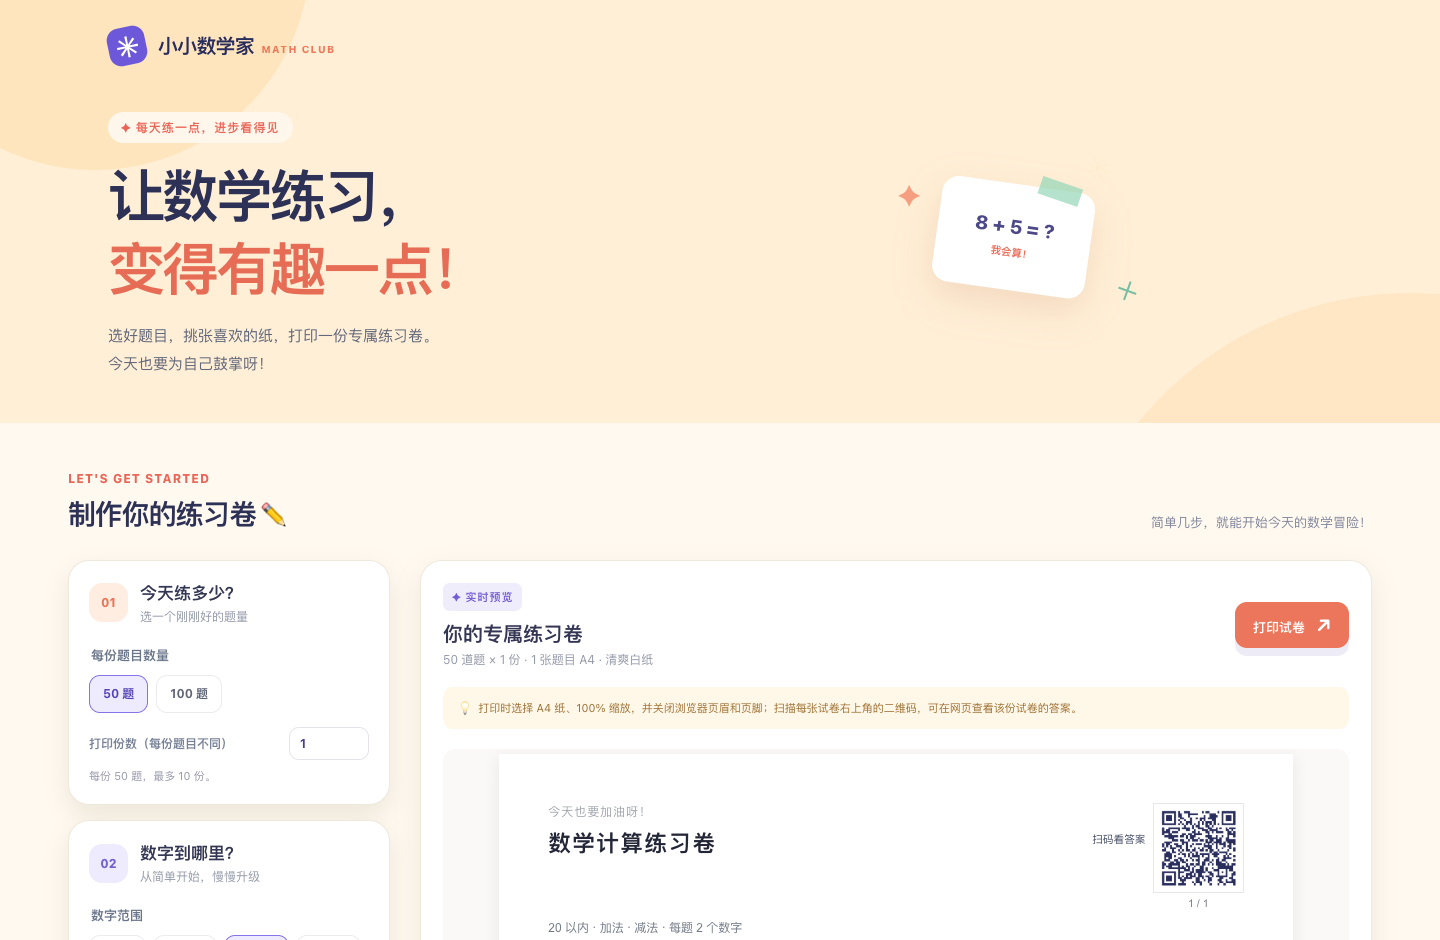
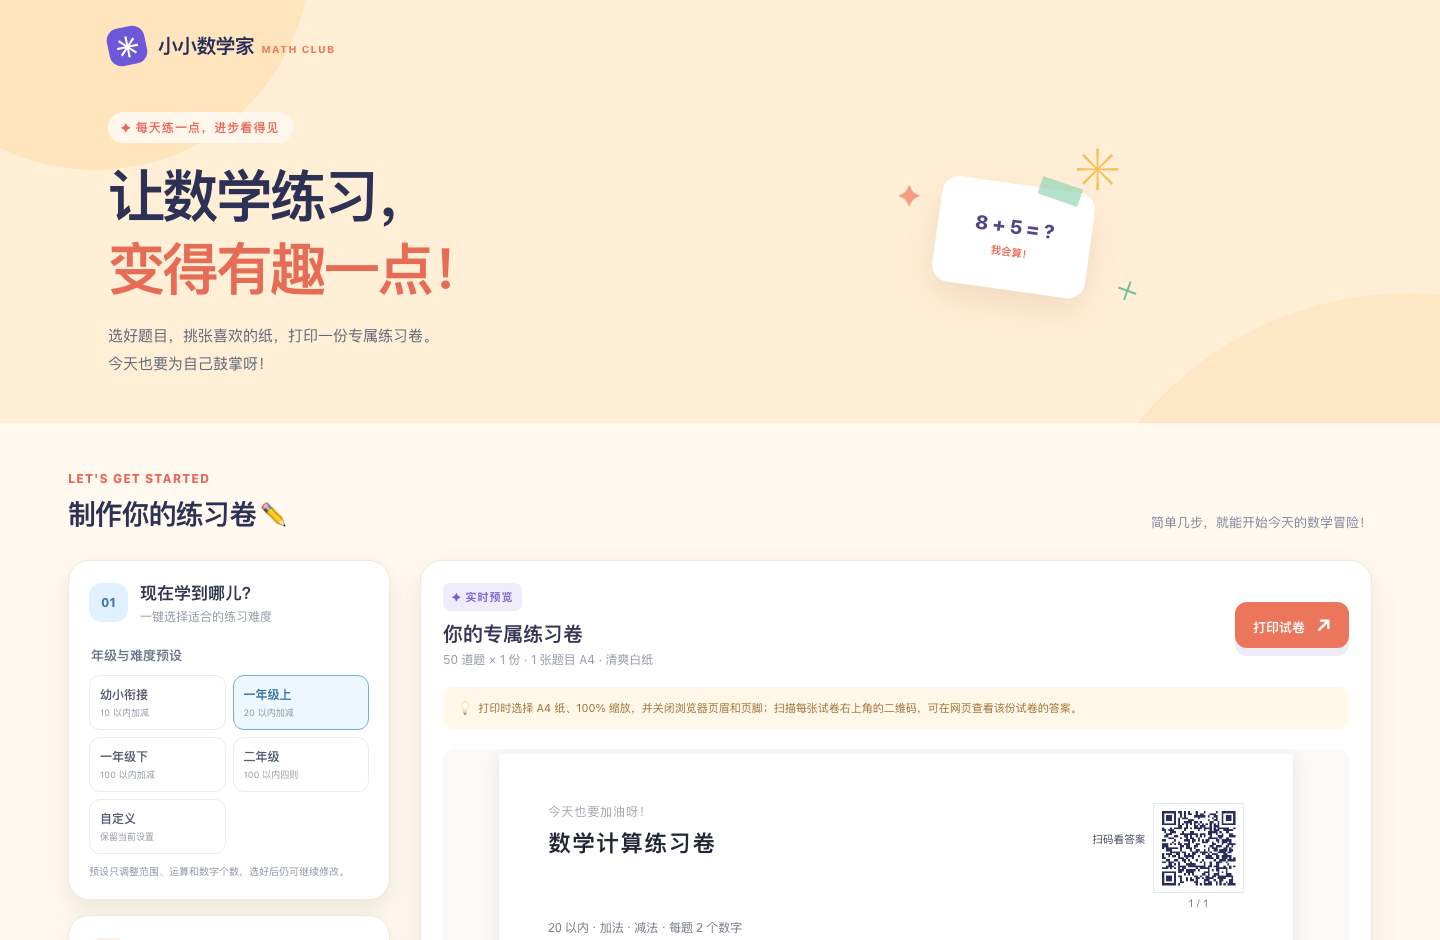
feat: add grade difficulty presets

Changed region(s): [[0.0312, 0.617, 0.2812, 0.9872], [0.7812, 0.8638, 0.875, 0.9564], [0.75, 0.1543, 0.7812, 0.1851]]

diff --git a/src/main.ts b/src/main.ts
@@ -13,6 +13,14 @@ import {
 } from './generator'
 
 type PaperStyle = 'plain' | 'squares' | 'lines' | 'dots' | 'tianzi'
+type PresetId = 'preschool' | 'grade1-first' | 'grade1-second' | 'grade2' | 'custom'
+
+interface SettingsPreset {
+  id: Exclude<PresetId, 'custom'>
+  label: string
+  description: string
+  settings: Pick<Settings, 'limit' | 'operations' | 'operands' | 'additionRegrouping' | 'subtractionRegrouping'>
+}
 
 const styleLabels: Record<PaperStyle, string> = {
   plain: '清爽白纸', squares: '数学方格', lines: '整齐横线',
@@ -31,6 +39,36 @@ const additionRegroupingOptions: Array<[AdditionRegrouping, string]> = [
 ]
 const subtractionRegroupingOptions: Array<[SubtractionRegrouping, string]> = [
   ['any', '随机'], ['without-borrow', '不退位'], ['with-borrow', '必须退位'],
+]
+const settingsPresets: SettingsPreset[] = [
+  {
+    id: 'preschool', label: '幼小衔接', description: '10 以内加减',
+    settings: {
+      limit: 10, operations: ['+', '−'], operands: 2,
+      additionRegrouping: 'any', subtractionRegrouping: 'any',
+    },
+  },
+  {
+    id: 'grade1-first', label: '一年级上', description: '20 以内加减',
+    settings: {
+      limit: 20, operations: ['+', '−'], operands: 2,
+      additionRegrouping: 'any', subtractionRegrouping: 'any',
+    },
+  },
+  {
+    id: 'grade1-second', label: '一年级下', description: '100 以内加减',
+    settings: {
+      limit: 100, operations: ['+', '−'], operands: 2,
+      additionRegrouping: 'any', subtractionRegrouping: 'any',
+    },
+  },
+  {
+    id: 'grade2', label: '二年级', description: '100 以内四则',
+    settings: {
+      limit: 100, operations: ['+', '−', '×', '÷'], operands: 2,
+      additionRegrouping: 'any', subtractionRegrouping: 'any',
+    },
+  },
 ]
 
 interface SheetCopy { seed: number; worksheet: Worksheet }
@@ -94,6 +132,7 @@ let settings: Settings = {
 const limitPresets = [5, 10, 20, 50, 100, 200]
 let customLimit = 200
 let useCustomLimit = false
+let activePreset: PresetId = 'grade1-first'
 let paperStyle: PaperStyle = 'plain'
 let includeAnswers = false
 let copies = 1
@@ -114,6 +153,10 @@ const app = document.querySelector<HTMLDivElement>('#app')!
 
 function choice(name: string, value: string | number, label: string, selected: boolean): string {
   return `<label class="choice"><input type="radio" name="${name}" value="${value}" ${selected ? 'checked' : ''}><span>${label}</span></label>`
+}
+
+function presetChoice(id: PresetId, label: string, description: string): string {
+  return `<label class="preset-choice"><input type="radio" name="preset" value="${id}" ${activePreset === id ? 'checked' : ''}><span><b>${label}</b><small>${description}</small></span></label>`
 }
 
 function makeWorksheets(worksheetSettings: Settings = settings): SheetCopy[] {
@@ -250,9 +293,11 @@ function render(): void {
     </div></header>
     <main class="workspace"><div class="workspace-heading"><div><span class="section-eyebrow">LET'S GET STARTED</span><h2>制作你的练习卷 <span aria-hidden="true">✏</span></h2></div><p>简单几步，就能开始今天的数学冒险！</p></div>
       <div class="workspace-grid"><aside class="controls" aria-label="出题设置">
-        <div class="control-card"><div class="card-title"><span class="title-icon peach">01</span><div><h3>今天练多少？</h3><p>选一个刚刚好的题量</p></div></div><fieldset><legend>每份题目数量</legend><div class="choice-row">${[50, 100].map((n) => choice('count', n, `${n} 题`, settings.count === n)).join('')}</div></fieldset><label class="custom-range">打印份数（每份题目不同）<input type="number" name="copies" min="1" max="10" step="1" value="${copies}" inputmode="numeric" ${settings.count === 100 ? 'disabled' : ''}></label>${settings.count === 100 ? '<p class="copies-hint">要打印多份不同试卷，请先选 50 题。</p>' : '<p class="copies-hint">每份 50 题，最多 10 份。</p>'}</div>
-        <div class="control-card"><div class="card-title"><span class="title-icon lavender">02</span><div><h3>数字到哪里？</h3><p>从简单开始，慢慢升级</p></div></div><fieldset><legend>数字范围</legend><div class="choice-row range-options">${limitPresets.map((n) => choice('limit', n, `${n} 以内`, !useCustomLimit && settings.limit === n)).join('')}${choice('limit', 'custom', '自定义', useCustomLimit)}</div><label class="custom-range">自定义上限（2～200）<input type="number" name="customLimit" min="2" max="200" step="1" value="${customLimit}" inputmode="numeric"></label></fieldset></div>
-        <div class="control-card"><div class="card-title"><span class="title-icon mint">03</span><div><h3>做什么运算？</h3><p>可以同时选好几种哦</p></div></div><fieldset><legend>运算方式（可多选）</legend><div class="choice-row operations">${operationSymbols.map((operator) =>
+        <div class="control-card preset-card"><div class="card-title"><span class="title-icon blue">01</span><div><h3>现在学到哪儿？</h3><p>一键选择适合的练习难度</p></div></div><fieldset><legend>年级与难度预设</legend><div class="preset-grid">${settingsPresets.map((preset) =>
+          presetChoice(preset.id, preset.label, preset.description)).join('')}${presetChoice('custom', '自定义', '保留当前设置')}</div></fieldset><p class="preset-hint">预设只调整范围、运算和数字个数，选好后仍可继续修改。</p></div>
+        <div class="control-card"><div class="card-title"><span class="title-icon peach">02</span><div><h3>今天练多少？</h3><p>选一个刚刚好的题量</p></div></div><fieldset><legend>每份题目数量</legend><div class="choice-row">${[50, 100].map((n) => choice('count', n, `${n} 题`, settings.count === n)).join('')}</div></fieldset><label class="custom-range">打印份数（每份题目不同）<input type="number" name="copies" min="1" max="10" step="1" value="${copies}" inputmode="numeric" ${settings.count === 100 ? 'disabled' : ''}></label>${settings.count === 100 ? '<p class="copies-hint">要打印多份不同试卷，请先选 50 题。</p>' : '<p class="copies-hint">每份 50 题，最多 10 份。</p>'}</div>
+        <div class="control-card"><div class="card-title"><span class="title-icon lavender">03</span><div><h3>数字到哪里？</h3><p>从简单开始，慢慢升级</p></div></div><fieldset><legend>数字范围</legend><div class="choice-row range-options">${limitPresets.map((n) => choice('limit', n, `${n} 以内`, !useCustomLimit && settings.limit === n)).join('')}${choice('limit', 'custom', '自定义', useCustomLimit)}</div><label class="custom-range">自定义上限（2～200）<input type="number" name="customLimit" min="2" max="200" step="1" value="${customLimit}" inputmode="numeric"></label></fieldset></div>
+        <div class="control-card"><div class="card-title"><span class="title-icon mint">04</span><div><h3>做什么运算？</h3><p>可以同时选好几种哦</p></div></div><fieldset><legend>运算方式（可多选）</legend><div class="choice-row operations">${operationSymbols.map((operator) =>
           `<label class="choice op-choice"><input type="checkbox" name="operation" value="${operator}" ${settings.operations.includes(operator) ? 'checked' : ''}><span><b>${operator}</b>${operationNames[operator]}</span></label>`).join('')}</div></fieldset>
           ${settings.operations.includes('+') ? `<fieldset class="regrouping-field"><legend>加法进位</legend><div class="choice-row compact-choices">${additionRegroupingOptions.map(([mode, label]) =>
             choice('additionRegrouping', mode, label, settings.additionRegrouping === mode)).join('')}</div></fieldset>` : ''}
@@ -260,7 +305,7 @@ function render(): void {
             choice('subtractionRegrouping', mode, label, settings.subtractionRegrouping === mode)).join('')}</div></fieldset>` : ''}
           ${settings.operations.includes('+') || settings.operations.includes('−') ? '<p class="regrouping-hint">多数字题中的每一步都会遵守所选规则。</p>' : ''}
           <fieldset><legend>每道题几个数字？</legend><div class="choice-row">${([2, 3, 4] as OperandCount[]).map((n) => choice('operands', n, `${n} 个`, settings.operands === n)).join('')}</div></fieldset></div>
-        <div class="control-card"><div class="card-title"><span class="title-icon yellow">04</span><div><h3>挑一张喜欢的纸</h3><p>每一种都适合写写算算</p></div></div><fieldset><legend>卷面样式</legend><div class="style-grid">${paperStyles.map((style) =>
+        <div class="control-card"><div class="card-title"><span class="title-icon yellow">05</span><div><h3>挑一张喜欢的纸</h3><p>每一种都适合写写算算</p></div></div><fieldset><legend>卷面样式</legend><div class="style-grid">${paperStyles.map((style) =>
           `<label class="style-choice"><input type="radio" name="style" value="${style}" ${paperStyle === style ? 'checked' : ''}><span><b aria-hidden="true">${styleIcons[style]}</b>${styleLabels[style]}</span></label>`).join('')}</div></fieldset></div>
         <label class="answer-toggle"><input type="checkbox" name="answers" ${includeAnswers ? 'checked' : ''}><span><b>附上答案页</b><small>每份试卷各对应一张 A4 答案纸</small></span></label>
         ${error ? `<p class="status error" role="alert">${error}</p>` : ''}
@@ -287,7 +332,22 @@ app.addEventListener('change', (event) => {
     const previousCopies = copies
     const previousCustomLimit = customLimit
     const previousUseCustomLimit = useCustomLimit
+    const previousPreset = activePreset
     const updated = { ...settings }
+    if (input.name === 'preset') {
+      const selectedPreset = input.value as PresetId
+      if (selectedPreset === 'custom') {
+        activePreset = 'custom'
+        error = ''
+        render()
+        return
+      }
+      const preset = settingsPresets.find(({ id }) => id === selectedPreset)
+      if (!preset) return
+      Object.assign(updated, preset.settings)
+      activePreset = preset.id
+      useCustomLimit = false
+    }
     if (input.name === 'count') {
       updated.count = Number(input.value) as Settings['count']
       if (updated.count === 100) copies = 1
@@ -338,10 +398,14 @@ app.addEventListener('change', (event) => {
       const generated = makeWorksheets(updated)
       settings = updated
       worksheets = generated
+      if (input.name !== 'preset' && ['limit', 'customLimit', 'operands', 'operation', 'additionRegrouping', 'subtractionRegrouping'].includes(input.name)) {
+        activePreset = 'custom'
+      }
     } catch (cause) {
       copies = previousCopies
       customLimit = previousCustomLimit
       useCustomLimit = previousUseCustomLimit
+      activePreset = previousPreset
       error = cause instanceof Error ? cause.message : '当前设置无法生成题目，请调整后重试。'
       render()
       return

diff --git a/src/style.css b/src/style.css
@@ -8,6 +8,7 @@
 .paper-scroll{max-height:none}
 .range-options{gap:7px}.range-options .choice span{padding:7px 10px}.custom-range{display:flex;align-items:center;justify-content:space-between;gap:8px;margin-top:14px;color:#778196;font-size:12px;font-weight:700}.custom-range input{width:80px;padding:8px 10px;border:1.5px solid #e6e2ec;border-radius:10px;color:#4b408c;background:#fff}.custom-range input:focus-visible{outline:2px solid #6955d7;outline-offset:2px}
 .regrouping-field{margin-bottom:14px}.compact-choices{gap:6px}.compact-choices .choice span{padding:6px 9px;min-height:34px}.regrouping-hint{margin:-3px 0 17px;color:#8a91a1;font-size:10px;line-height:1.5}
+.blue{color:#4179ad;background:#e2f1ff}.preset-grid{display:grid;grid-template-columns:repeat(2,minmax(0,1fr));gap:7px}.preset-choice{position:relative;cursor:pointer;min-width:0}.preset-choice input{position:absolute;opacity:0;width:100%;height:100%;margin:0;cursor:pointer}.preset-choice span{display:flex;min-height:55px;flex-direction:column;justify-content:center;padding:8px 10px;border:1.5px solid #edeaf0;border-radius:11px;background:#fff;transition:.15s}.preset-choice b{font-size:12px;color:#555d72}.preset-choice small{margin-top:3px;color:#9298a7;font-size:9px}.preset-choice:hover span{transform:translateY(-2px)}.preset-choice input:checked+span{border-color:#70aee1;background:#edf7ff}.preset-choice input:checked+span b{color:#326f9f}.preset-choice input:focus-visible+span{outline:3px solid #3520bc;outline-offset:3px}.preset-hint{margin:10px 0 0;color:#8a91a1;font-size:10px;line-height:1.5}
 .paper{position:relative;isolation:isolate}.page-pattern{position:absolute;inset:0;width:100%;height:100%;pointer-events:none;z-index:-1;stroke:#dbe4eb;stroke-width:.2;fill:none}.pattern-dots{stroke:none;fill:#c5d3dc}.pattern-lines{stroke-dasharray:1.5 1.5}.pattern-tianzi .pattern-dash{stroke-dasharray:1 1.5;stroke-width:.14}.paper:not(.paper-plain) .problem{border-bottom:0}.paper:not(.paper-plain) .student-fields{border-bottom:0}
 .paper:not(.answer-page) .paper-top{height:44mm}.paper-heading{align-items:flex-start}.paper-heading-right{display:flex;align-items:flex-start;gap:3mm}.paper-qr{display:block;width:24mm;height:24mm;flex:none;background:#fff;border:1px solid #e5e8ed;padding:1mm}.paper-qr img{display:block;width:100%;height:100%}.paper-qr span{font-size:7pt}.paper-columns{grid-template-columns:repeat(var(--question-columns,2),minmax(0,1fr))}.problem-column{grid-template-rows:repeat(var(--question-rows,25),minmax(0,1fr))}.problem-expression{flex:0 1 auto}.answer-area{width:auto;min-width:10mm;flex:1}.paper-columns[style*="3"] .problem{gap:1mm;padding:0;font-size:10pt}.paper-columns[style*="3"] .problem-number{min-width:5.5mm;font-size:8pt}
 .paper-heading-right{flex-direction:column;align-items:center;gap:1mm}.paper-qr{order:0}.paper-heading-right .paper-page{order:1;font-size:9pt}.copies-hint{margin:8px 0 0;color:#9697a8;font-size:11px;line-height:1.5}.custom-range input:disabled{background:#f4f3f5;color:#a6a7ae;cursor:not-allowed}.print-button:disabled{background:#b3b0b8;cursor:not-allowed;box-shadow:none;transform:none}

diff --git a/docs/requirements.md b/docs/requirements.md
@@ -8,6 +8,7 @@
 - 选择 50 题时可指定 1～10 份，分别生成不同的 50 题试卷（而不是将同一页重复打印）；100 题模式只能生成 1 份。若当前约束无法保证每份题目不同，禁止打印并提示调整条件。
 - 选择 **5、10、20、50、100、200 以内**，或输入 **2～200** 的自定义整数上限。旧试卷二维码中已生成的更大范围题目仍应能显示原答案。
 - 加、减、乘、除可多选；一年级默认使用加减法。
+- 提供保守的年级与难度预设：幼小衔接为 10 以内两数字加减，一年级上为 20 以内两数字加减，一年级下为 100 以内两数字加减，二年级为 100 以内两数字四则；进退位均默认随机。应用预设不改变题量、打印份数、纸张和答案页，用户随后仍可修改各项，修改后显示为自定义设置。
 - 加法可分别选择随机、不进位或必须进位；减法可分别选择随机、不退位或必须退位。进位、退位按十进制任一数位是否需要进位或借位判断；3～4 个数字时，每一步加减运算都必须满足对应设置。条件无法生成任何题目时应提示用户放宽范围或规则，不能生成不符合设置的占位题。
 - 每题可设置 **2、3 或 4 个数字**。多数字算式不使用括号；混合运算按先乘除、后加减及同级从左到右的常规顺序生成和求值。
 - 每张卷尽量避免重复题；题目组合不足时给出提示，而不是无限等待。

diff --git a/worklogs/2026-11-12.md b/worklogs/2026-11-12.md
@@ -1,0 +1,9 @@
+# 2026-11-12 工作记录
+
+## 增加年级与难度预设
+
+- 目的：按功能扩展顺序实现第二项，让家长能一键选择保守、易懂的年级练习设置，并在部署后单独验收。
+- 改动：新增幼小衔接、一年级上、一年级下、二年级和自定义入口；分别对应 10 以内加减、20 以内加减、100 以内加减、100 以内四则，均使用两个数字和随机进退位。预设不改变题量、份数、纸张或答案页，应用后仍可逐项修改，修改范围、运算、数字个数或进退位规则后自动标记为自定义。
+- 验证：`npm run build` 通过。使用 Chrome 自动逐一选择四个预设，确认范围、运算、两个数字和随机进退位均按映射生效，每档生成 100 道题且无错误；预先选择的 100 题、数学方格和答案页均保持不变。手动修改范围后自动切换为自定义，再选择预设可重新正确应用。桌面 1440px 和手机 390px 截图检查选项文字、选中状态与卡片排列清楚，并更新 README 首页截图。线上部署检查待推送后完成。
+- 提交前检查：使用 Gitleaks 8.30.1 扫描完整暂存区补丁，未发现机密；`git diff --cached --check` 通过，并人工复核代码、文档、worklog 和更新后的首页截图。写入本记录后再次暂存并重复扫描与复核。
+- 未完成：等待用户在线验收第二项后，再开始填空题。

diff --git a/README.md b/README.md
@@ -7,6 +7,7 @@
 ### 可以做什么
 
 - **按需要出题**：选择每份 50 或 100 题；数字范围有 5、10、20、50、100、200 以内，也可以自定义 2～200 的整数上限。
+- **一键选择难度**：提供幼小衔接、一年级上、一年级下和二年级的保守预设，自动配置数字范围与运算方式；应用后仍可继续修改为自己的设置。
 - **选择计算方式**：加、减、乘、除可多选，每题可使用 2、3 或 4 个数字；多数字算式不带括号，并遵循先乘除、后加减的常规顺序。加法可选择随机、不进位或必须进位，减法可选择随机、不退位或必须退位，多数字题的每一步都会遵守设置。一年级默认是 20 以内的两数字加减题。所有数字、中间结果和答案均在选定范围内，且不会出现负数；除法只出能整除的题。
 - **一次制作多份**：50 题模式可生成 1～10 份题目不同的试卷，而不是把同一张纸复印多次；100 题模式固定为一份。当题目条件过窄、无法保证多份不同的时候，网页会提示调整设置。
 - **选择整页底纹**：清爽白纸、数学方格、横线、点阵、田字格。底纹覆盖整张试卷，而不是只加在等号后面；屏幕预览与打印版式对应。
